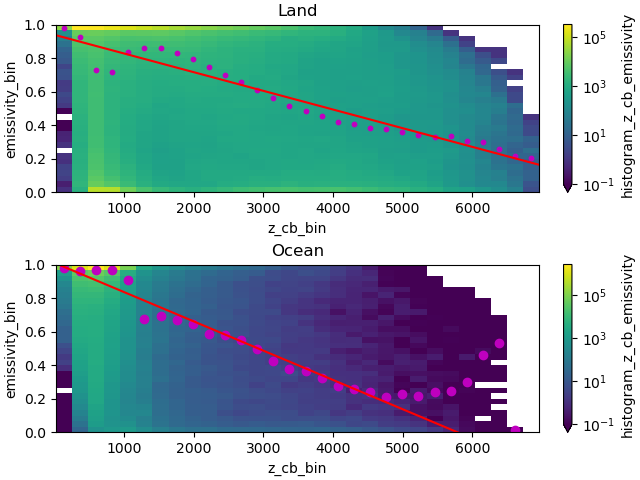
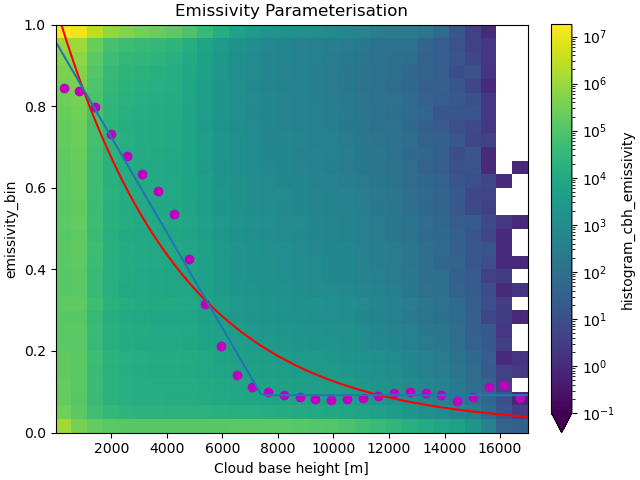
using hourly data

diff --git a/KSR24/emissivity_parameterisation.py b/KSR24/emissivity_parameterisation.py
@@ -5,49 +5,45 @@ import xhistogram.xarray as xhist
 import matplotlib.pyplot as plt
 import matplotlib.colors as colors
 import scipy.stats as stats
+from scipy.optimize import curve_fit
+
+def emiss_fit(x, a, b, c):
+    return a*np.exp(-x/b) + c
+
+def piecewise_linear(x, x0,y0, k1):
+    return xr.where(x >= x0, y0, k1*x + y0-k1*x0)
 
 def main():
-    data = xr.open_mfdataset("/gws/nopw/j04/csgap/kkawaguchi/KSR24_data/*.nc", engine="netcdf4").resample({'valid_time':'MS'}).mean().compute()
-    
-    data['RH'] = calc_vapor_pressure(data['d2m'])/calc_vapor_pressure(data['t2m'])
-    data['z_cb'] = calc_cloud_height(data['t2m'], data['RH'])
+    data = xr.open_dataset("/gws/nopw/j04/csgap/kkawaguchi/KSR24_data/hourly/lwp_and_cbh.nc", engine="netcdf4")
     data['emissivity'] = (1-(np.exp(-158*data['tclw'])))
 
     lat_weights = np.cos(np.radians(data.latitude))
 
-    land_histogram = xhist.histogram(data['z_cb'], data['emissivity'], bins=30,weights=lat_weights * data['lsm'], block_size=None)
-    ocean_histogram = xhist.histogram(data['z_cb'], data['emissivity'], bins=30,weights=lat_weights *(1- data['lsm']), block_size=None)
-    land_histo_numbers = xhist.histogram(data['z_cb'], bins=30, weights=lat_weights*data['lsm'], block_size=None)
-    ocean_histo_numbers = xhist.histogram(data['z_cb'], bins=30, weights=lat_weights*(1-data['lsm']), block_size=None)
+    histogram = xhist.histogram(data['cbh'], data['emissivity'], bins=30, weights=lat_weights,range=[[0, 17000], [0,1]], block_size=None)
+    histo_numbers = xhist.histogram(data['cbh'], bins=30, weights=lat_weights, range=[0, 17000], block_size=None)
 
-    land_emissivity_weights = land_histogram * land_histogram.emissivity_bin
-    ocean_emissivity_weights = ocean_histogram * ocean_histogram.emissivity_bin
+    emissivity_weights = histogram * histogram.emissivity_bin
 
-    land_mean_emissivity = land_emissivity_weights.sum(dim='emissivity_bin')/land_histo_numbers
-    ocean_mean_emissivity = ocean_emissivity_weights.sum(dim='emissivity_bin')/ocean_histo_numbers
+    mean_emissivity = emissivity_weights.sum(dim='emissivity_bin')/histo_numbers
     
-    land_regression = stats.linregress(land_histo_numbers.z_cb_bin, land_mean_emissivity)
-    ocean_regression = stats.linregress(ocean_histo_numbers.z_cb_bin.sel({'z_cb_bin':slice(None, 5000)}), ocean_mean_emissivity.sel({'z_cb_bin':slice(None, 5000)}))
-    x = np.linspace(0, 7000, 50)
+    from scipy.optimize import curve_fit
 
-    print(land_regression.slope)
-    print(land_regression.intercept)
-    print(land_regression.rvalue)
+    popt, pcov = curve_fit(emiss_fit, histo_numbers.cbh_bin, mean_emissivity, p0=[1, 4000, 0])
 
-    print(ocean_regression.slope)
-    print(ocean_regression.intercept)
-    print(ocean_regression.rvalue)
+    ptest, ptestcov = curve_fit(piecewise_linear, histo_numbers.cbh_bin, mean_emissivity, p0=[8000, 0.1, 1e-4])
 
-    fig, ax = plt.subplots(2, 1, layout='constrained')
-    land_histogram.T.plot(ax=ax[0], norm=colors.LogNorm(vmin=0.1))
-    ax[0].scatter(land_histo_numbers.z_cb_bin, land_mean_emissivity,c='m')
-    ax[0].plot(x, land_regression.slope * x + land_regression.intercept, 'red')
-    ax[0].set_title('Land')
+    #regression = stats.linregress(histo_numbers.cbh_bin, mean_emissivity)
+    x = np.linspace(0, 17000, 100)
 
-    ocean_histogram.T.plot(ax=ax[1], norm=colors.LogNorm(vmin=0.1))
-    ax[1].scatter(ocean_histo_numbers.z_cb_bin, ocean_mean_emissivity, c='m')
-    ax[1].plot(x, ocean_regression.slope * x + ocean_regression.intercept, 'red')
-    ax[1].set_title('Ocean')
+    print(popt)
+    print(ptest)
+
+    fig, ax = plt.subplots(1, 1, layout='constrained')
+    histogram.T.plot(ax=ax, norm=colors.LogNorm(vmin=0.1))
+    ax.scatter(histo_numbers.cbh_bin, mean_emissivity,c='m')
+    ax.plot(x, popt[0]*np.exp(-x/popt[1])+popt[2], 'red')
+    ax.plot(x, piecewise_linear(x, ptest[0], ptest[1], ptest[2]))
+    ax.set_title('Emissivity Parameterisation')
     fig.savefig('emissivity_plot.png')
     return None
 
